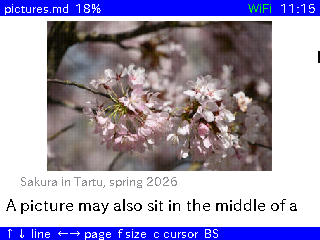
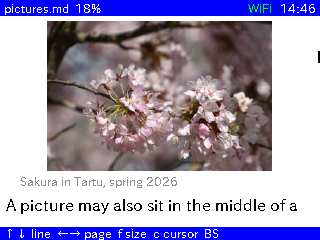
Fix square pattern in pictures - the reason was dithering in TJpgDec. Refresh readme screenshots

diff --git a/src/ui/ImageCache.cpp b/src/ui/ImageCache.cpp
@@ -19,30 +19,126 @@ void ImageCache::evictFor(size_t bytes) {
     }
 }
 
+namespace {
+
+// A sprite in PSRAM, filled with the page colour (transparent PNG pixels end up on it).
+std::unique_ptr<lgfx::LGFX_Sprite> makeSprite(int w, int h, int bits) {
+    auto s = std::make_unique<lgfx::LGFX_Sprite>();
+    s->setColorDepth(bits);
+    s->setPsram(true);
+    if (!s->createSprite(w, h)) return nullptr;
+    s->fillScreen(theme::kBg);
+    return s;
+}
+
+// Let LovyanGFX decode the file into `s`, scaled by `scale`.
+bool decodeInto(lgfx::LGFX_Sprite& s, const rt::Image& img, hal::File& f, float scale) {
+    HalDataWrapper data(f);
+    const int w = s.width(), h = s.height();
+    switch (img.format) {
+        // drawXxx(source, x, y, maxW, maxH, offX, offY, scaleX, scaleY)
+        case rt::ImageFormat::Jpeg: return s.drawJpg(&data, 0, 0, w, h, 0, 0, scale, scale);
+        case rt::ImageFormat::Png:  return s.drawPng(&data, 0, 0, w, h, 0, 0, scale, scale);
+        case rt::ImageFormat::Bmp:  return s.drawBmp(&data, 0, 0, w, h, 0, 0, scale, scale);
+        case rt::ImageFormat::Qoi:  return s.drawQoi(&data, 0, 0, w, h, 0, 0, scale, scale);
+        default: return false;
+    }
+}
+
+// LovyanGFX's JPEG decoder (utility/lgfx_tjpgd.c, `#define JD_BAYER 1`, no way to
+// switch it off) adds this 4×4 "Bayer" pattern to the brightness of every pixel:
+// ORDERED DITHERING, meant to hide colour banding on a 16-bit panel. Rounded to
+// RGB565 it flips pixels between neighbouring colour steps, which looks like a
+// fine square grid. The pattern is fixed and starts at the picture's top-left
+// corner, so we can subtract it again exactly.
+constexpr int8_t kBayer[16] = {0, 4, 1, 5, -2, 2, -1, 3, 1, 5, 0, 4, -1, 3, -2, 2};
+
+// Decoding at 1/div, TJpgDec averages div×div pixels, dither included. bayer[]
+// gets, for each output position mod 4, the SUM of the offsets it averaged
+// (so the real offset is bayer[i] / (div*div)). div 8 skips the dither: all 0.
+void bayerTable(int div, int bayer[16]) {
+    for (int y = 0; y < 4; ++y)
+        for (int x = 0; x < 4; ++x) {
+            int sum = 0;
+            if (div < 8)
+                for (int j = 0; j < div; ++j)
+                    for (int i = 0; i < div; ++i) sum += kBayer[((y * div + j) & 3) * 4 + ((x * div + i) & 3)];
+            bayer[y * 4 + x] = sum;
+        }
+}
+
+// 0..255 -> nearest RGB565 step (swap565_t's own constructor just cuts off bits).
+inline uint8_t round5(int v) { return static_cast<uint8_t>(std::clamp(v + 4, 0, 255)); }
+inline uint8_t round6(int v) { return static_cast<uint8_t>(std::clamp(v + 2, 0, 255)); }
+
+// Shrink the 24-bit `src` into the 16-bit `dst` with a BOX FILTER: every
+// destination pixel is the average of the source pixels it covers – roughly what
+// a PC image viewer does – minus the decoder's dither (see kBayer).
+// Pixel types: a 24-bit sprite holds lgfx::bgr888_t (.r .g .b bytes), a 16-bit one
+// lgfx::swap565_t (RGB565 with the bytes swapped, so it can go to the panel as is).
+void boxShrink(const lgfx::LGFX_Sprite& src, lgfx::LGFX_Sprite& dst, int div) {
+    int bayer[16];
+    bayerTable(div, bayer);
+    const int dd = div * div;
+    const int sw = src.width(), sh = src.height(), dw = dst.width(), dh = dst.height();
+    auto* in = static_cast<const lgfx::bgr888_t*>(src.getBuffer());
+    auto* out = static_cast<lgfx::swap565_t*>(dst.getBuffer());
+    for (int y = 0; y < dh; ++y) {
+        const int y0 = y * sh / dh, y1 = std::max(y0 + 1, (y + 1) * sh / dh);
+        for (int x = 0; x < dw; ++x) {
+            const int x0 = x * sw / dw, x1 = std::max(x0 + 1, (x + 1) * sw / dw);
+            int r = 0, g = 0, b = 0, dither = 0;
+            for (int yy = y0; yy < y1; ++yy)
+                for (int xx = x0; xx < x1; ++xx) {
+                    const lgfx::bgr888_t p = in[yy * sw + xx];
+                    r += p.r; g += p.g; b += p.b;
+                    dither += bayer[(yy & 3) * 4 + (xx & 3)];
+                }
+            const int n = (y1 - y0) * (x1 - x0) * dd;   // r/n*dd = average colour
+            out[y * dw + x] = lgfx::swap565_t(round5((r * dd - dither) / n),
+                                              round6((g * dd - dither) / n),
+                                              round5((b * dd - dither) / n));
+        }
+    }
+}
+
+// Largest full-size decode we allow before shrinking: 3 bytes a pixel, 2.25 MB of PSRAM.
+constexpr uint32_t kMaxFullPixels = 768u * 1024u;
+
+}  // namespace
+
+// Why not just pass the scale to drawJpg()? Two problems:
+//  * LovyanGFX shrinks every 8×8 JPEG block ON ITS OWN by picking the nearest
+//    pixel, so all blocks drop the same rows and columns (PNG & co.: jagged edges).
+//  * The JPEG decoder dithers (see kBayer), visible as a fine square grid.
+// So we decode at full size – JPEG at 1/2, 1/4 or 1/8 if that is still big enough,
+// which TJpgDec does exactly while decoding – into a temporary 24-bit sprite, and
+// boxShrink() the WHOLE picture once, removing the dither on the way.
+// A picture too large for that falls back to the direct way.
 std::unique_ptr<lgfx::LGFX_Sprite> ImageCache::decode(const rt::Image& img, int dw, int dh) {
     hal::File f;
     if (!f.open(img.path)) return nullptr;
-    auto sprite = std::make_unique<lgfx::LGFX_Sprite>();
-    sprite->setColorDepth(16);           // RGB565, like the canvas: a plain copy later
-    sprite->setPsram(true);              // dw*dh*2 bytes, e.g. 300*150*2 = 88 KB
-    if (!sprite->createSprite(dw, dh)) return nullptr;
-    sprite->fillScreen(theme::kBg);      // transparent PNG pixels end up on the page colour
-
-    HalDataWrapper data(f);
-    const float sx = static_cast<float>(dw) / img.w;
-    const float sy = static_cast<float>(dh) / img.h;
     const uint32_t t0 = hal::millis();
+
+    // JPEG: the largest exact 1/div that still keeps at least dw×dh pixels.
+    const bool jpeg = img.format == rt::ImageFormat::Jpeg;
+    int div = 1;
+    if (jpeg)
+        while (div < 8 && img.w / (div * 2) >= dw && img.h / (div * 2) >= dh) div *= 2;
+    const int fw = (img.w + div - 1) / div, fh = (img.h + div - 1) / div;
+
+    auto sprite = makeSprite(dw, dh, 16);    // RGB565 like the canvas: dw*dh*2 bytes, e.g. 88 KB
     bool ok = false;
-    switch (img.format) {
-        // drawXxx(source, x, y, maxW, maxH, offX, offY, scaleX, scaleY)
-        case rt::ImageFormat::Jpeg: ok = sprite->drawJpg(&data, 0, 0, dw, dh, 0, 0, sx, sy); break;
-        case rt::ImageFormat::Png:  ok = sprite->drawPng(&data, 0, 0, dw, dh, 0, 0, sx, sy); break;
-        case rt::ImageFormat::Bmp:  ok = sprite->drawBmp(&data, 0, 0, dw, dh, 0, 0, sx, sy); break;
-        case rt::ImageFormat::Qoi:  ok = sprite->drawQoi(&data, 0, 0, dw, dh, 0, 0, sx, sy); break;
-        default: break;
+    if (sprite && static_cast<uint32_t>(fw) * fh <= kMaxFullPixels) {
+        auto full = makeSprite(fw, fh, 24);  // temporary, freed on return
+        ok = full && decodeInto(*full, img, f, 1.0f / div);
+        if (ok) boxShrink(*full, *sprite, jpeg ? div : 8);   // 8 = "no dither to remove"
+    } else if (sprite) {
+        ok = decodeInto(*sprite, img, f, static_cast<float>(dw) / img.w);
     }
-    hal::log("[image] %s %dx%d -> %dx%d: %s in %u ms\n", img.src.c_str(), img.w, img.h, dw, dh,
-             ok ? "decoded" : "FAILED", static_cast<unsigned>(hal::millis() - t0));
+    hal::log("[image] %s %dx%d -> %dx%d (via %dx%d): %s in %u ms\n", img.src.c_str(), img.w,
+             img.h, dw, dh, fw, fh, ok ? "decoded" : "FAILED",
+             static_cast<unsigned>(hal::millis() - t0));
     if (!ok) return nullptr;
     return sprite;
 }

diff --git a/docs/03-text-and-reader.md b/docs/03-text-and-reader.md
@@ -177,10 +177,19 @@ itself.
    take ~100 ms.
 2. **Layout** shrinks a picture (never enlarges it) to the text width and at most
    150 px tall (`kMaxImageH`), so the picture and its caption always fit on one screen.
-3. **Drawing** (`src/ui/ImageCache.cpp`) decodes each picture once, at display size,
-   into a sprite. Up to 1 MB of decoded pictures are kept, and the least recently used
+3. **Drawing** (`src/ui/ImageCache.cpp`) decodes each picture once into a sprite at
+   display size. Up to 1 MB of decoded pictures are kept, and the least recently used
    one is thrown out first. Decoding costs 50–150 ms on the device, and copying a cached
    picture about 1 ms.
+
+   LovyanGFX could scale while decoding, but it scales each 8×8 JPEG block separately
+   by picking the nearest pixel, and its JPEG decoder adds a 4×4 **dither** pattern (a
+   fixed brightness offset per pixel, meant to hide banding in 16-bit colour). Both show
+   up as a fine square grid. So `ImageCache` decodes at full size (JPEG at an exact ½,
+   ¼ or ⅛ when that is still big enough) into a temporary 24-bit sprite, subtracts the
+   known dither, and shrinks the whole picture once by averaging the pixels each
+   screen pixel covers (a **box filter**). Only a picture over 768 K pixels at that
+   size skips this and is scaled the old way.
 
 The decoders are LovyanGFX's. They can't do **progressive JPEG**: such a picture shows
 its caption and the reason instead. Save it as baseline JPEG, and shrink big photos on

diff --git a/sdcard/tdeckjisho/books/pictures.md b/sdcard/tdeckjisho/books/pictures.md
@@ -11,7 +11,7 @@ A picture may also sit in the middle of a sentence: here comes that famous sente
 
 ![これはペンです - in BMP)](img/korewapendesu.bmp)
 
-![Same, but (QOI, "Quite OK Image")](img/korewapendesu.qoi)
+![Same, but (QOI, "Quite OK Image"](img/korewapendesu.qoi)
 
 ## And one they don't
 
